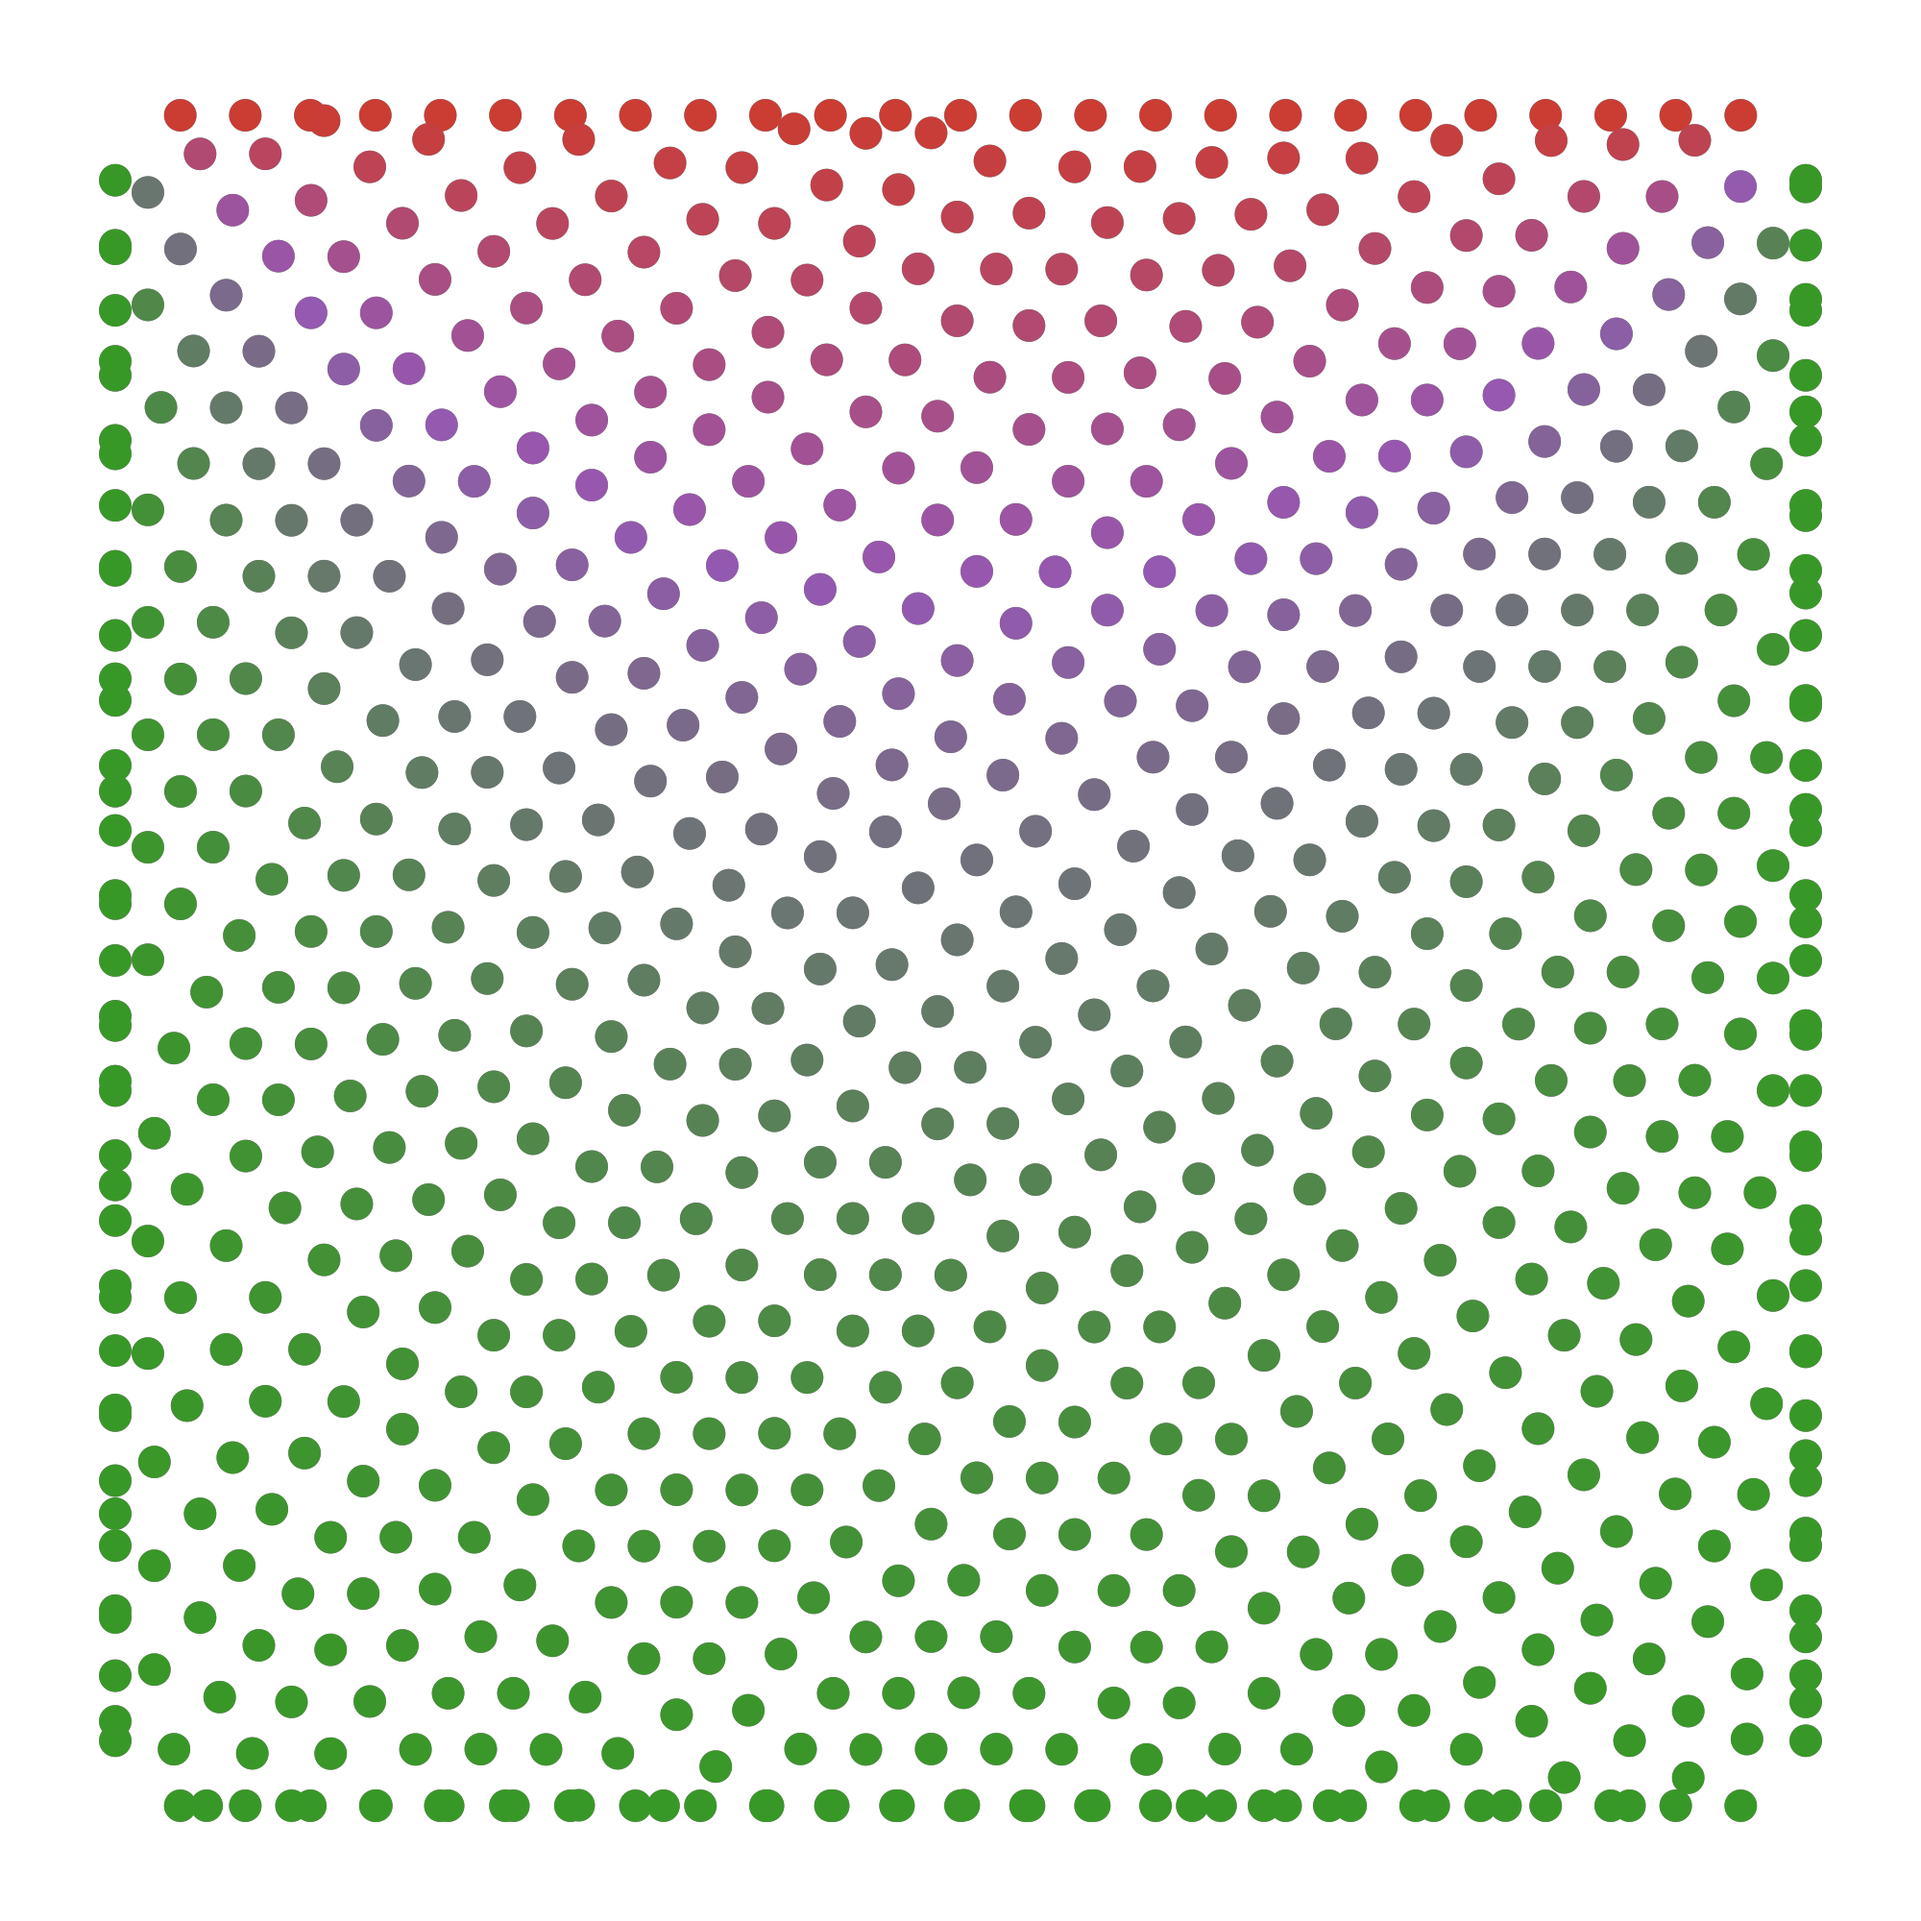
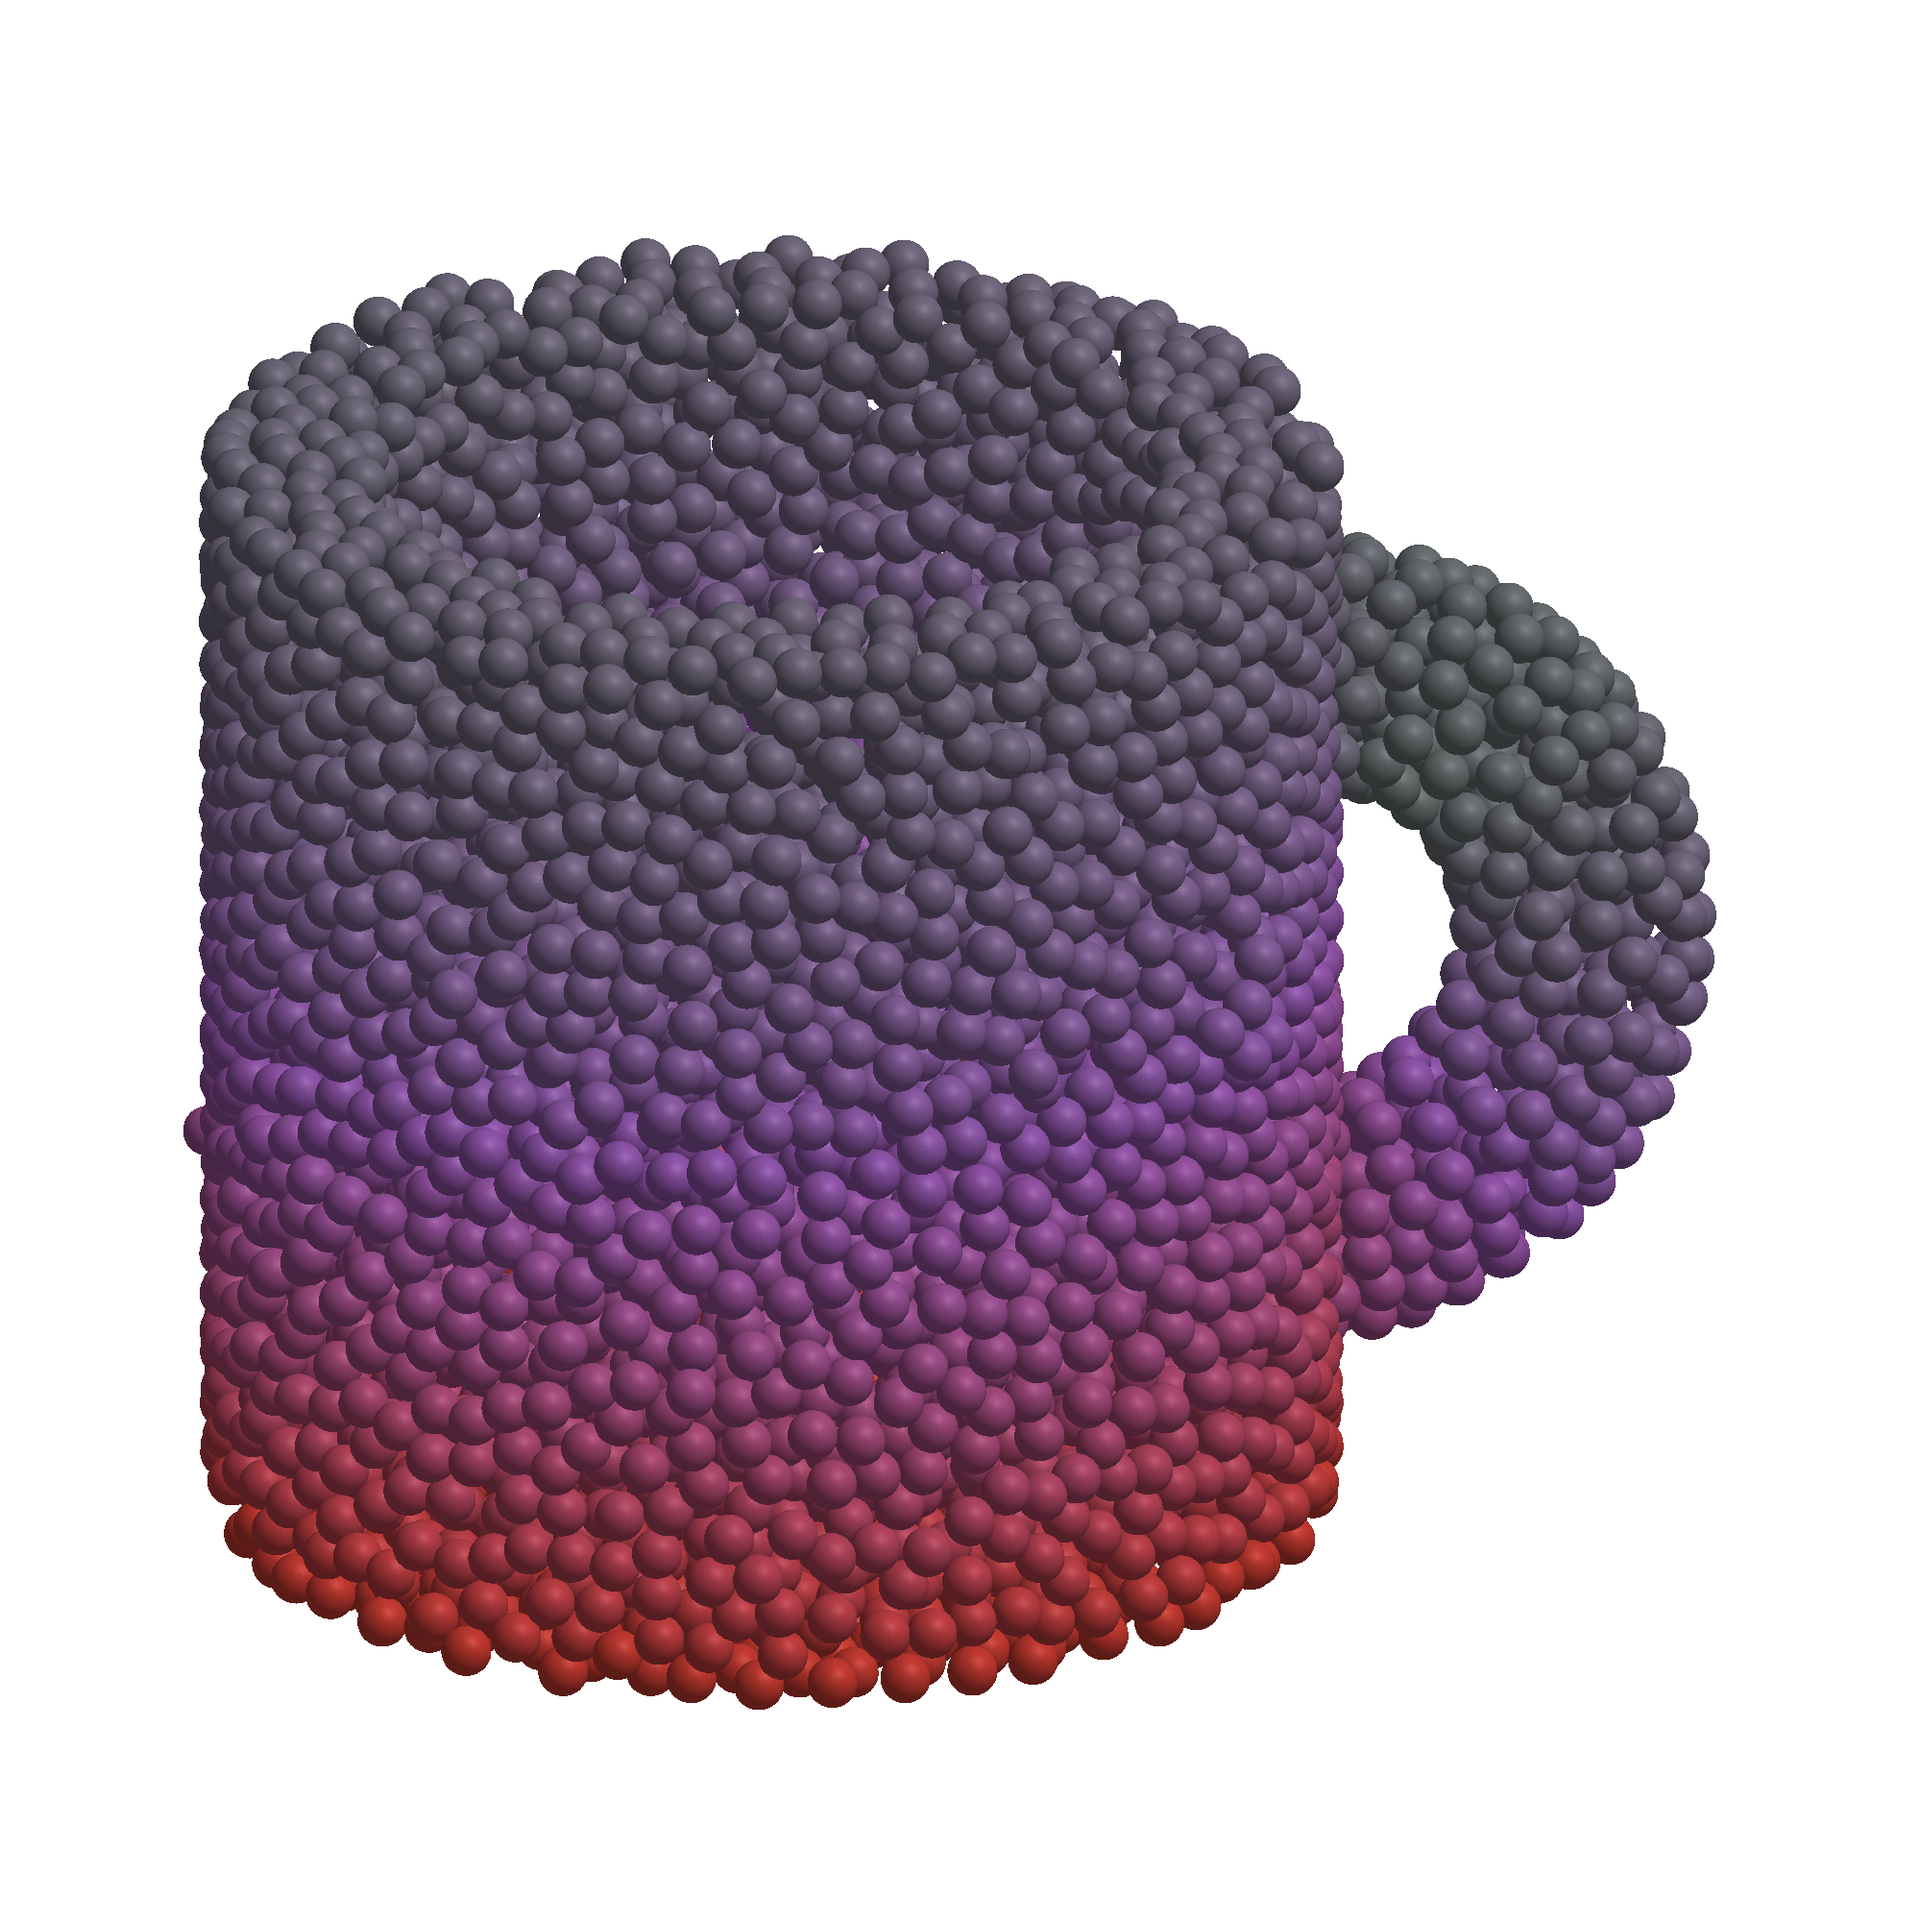
docs: swap hero to coffee-mug conduction render

diff --git a/docs/src/index.md b/docs/src/index.md
@@ -8,7 +8,7 @@ hero:
   tagline: Define any equation with a small model interface — no mesh, no element quality, no remeshing.
   image:
     src: /hero.png
-    alt: Cantilever beam point cloud coloured by displacement magnitude
+    alt: Coffee-mug point cloud coloured by temperature
   actions:
     - theme: brand
       text: Get Started
